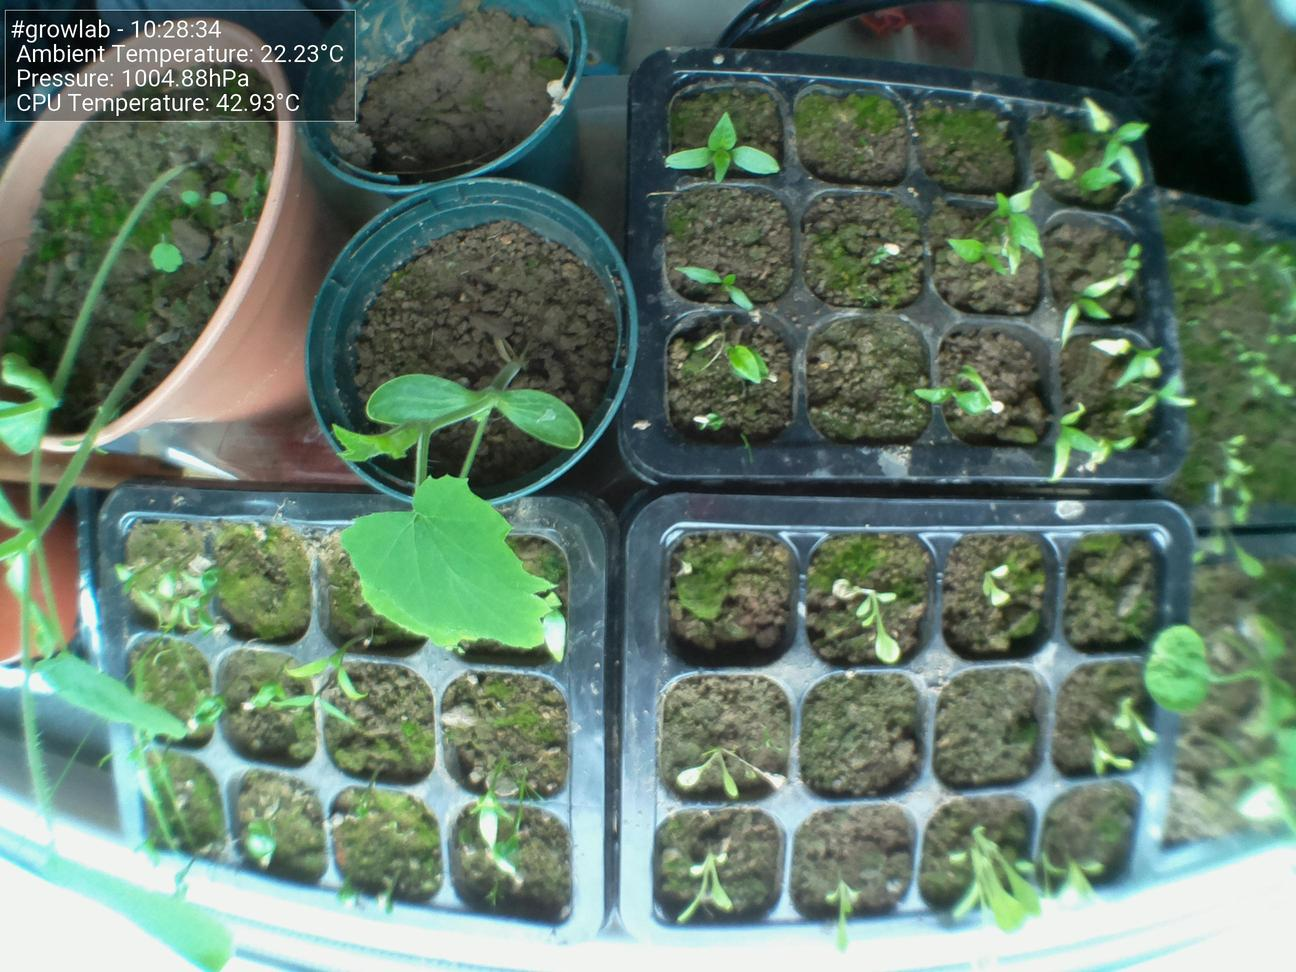
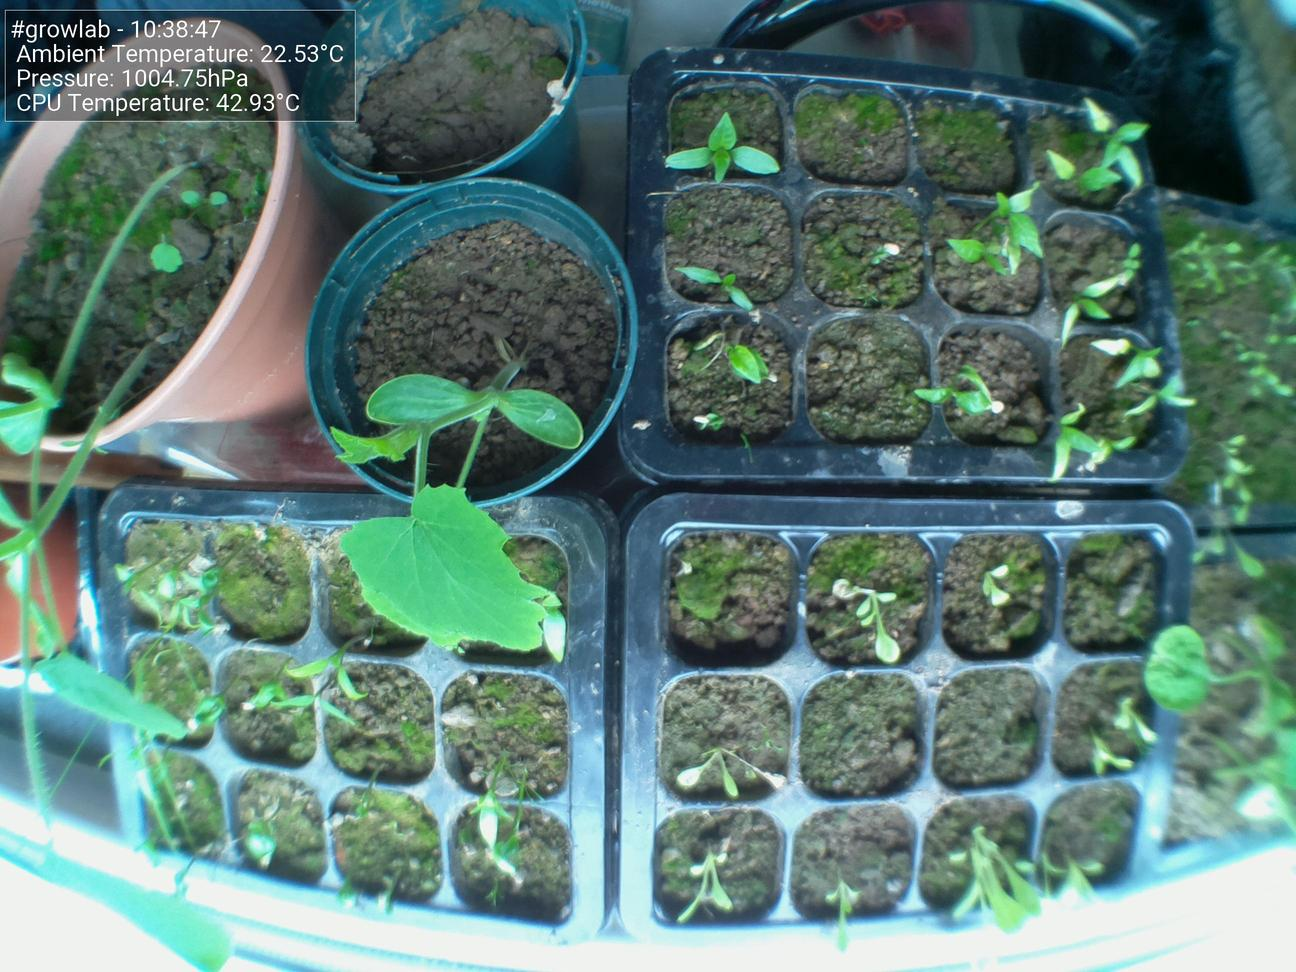
Update images at Tue 17 May 10:38:52 BST 2022

diff --git a/docs/index.html b/docs/index.html
@@ -44,7 +44,7 @@
                         <tbody>
                             <tr>
                                 <td>Time</td>
-                                <td>10:28:34</td>
+                                <td>10:38:47</td>
                             </tr>
                             <tr>
                                 <td>CPU Temp</td>
@@ -52,7 +52,7 @@
                             </tr>
                             <tr>
                                 <td>Ambient Temperature</td>
-                                <td>22.23°C</td>
+                                <td>22.53°C</td>
                             </tr>
                             <tr>
                                 <td>Humidity</td>
@@ -60,7 +60,7 @@
                             </tr>
                             <tr>
                                 <td>Pressure</td>
-                                <td>1004.88hPa</td>
+                                <td>1004.75hPa</td>
                             </tr>
                         </tbody>
                     </table>
@@ -68,7 +68,7 @@
 
                 <h5>Latest image</h5>
                 <div style="width: 85%;">
-                            <img class="figure-img img-fluid rounded" src="./preview.jpg?uid=1652779718.6465619">
+                            <img class="figure-img img-fluid rounded" src="./preview.jpg?uid=1652780331.8487666">
                 </div>
             </div>
         </div>
